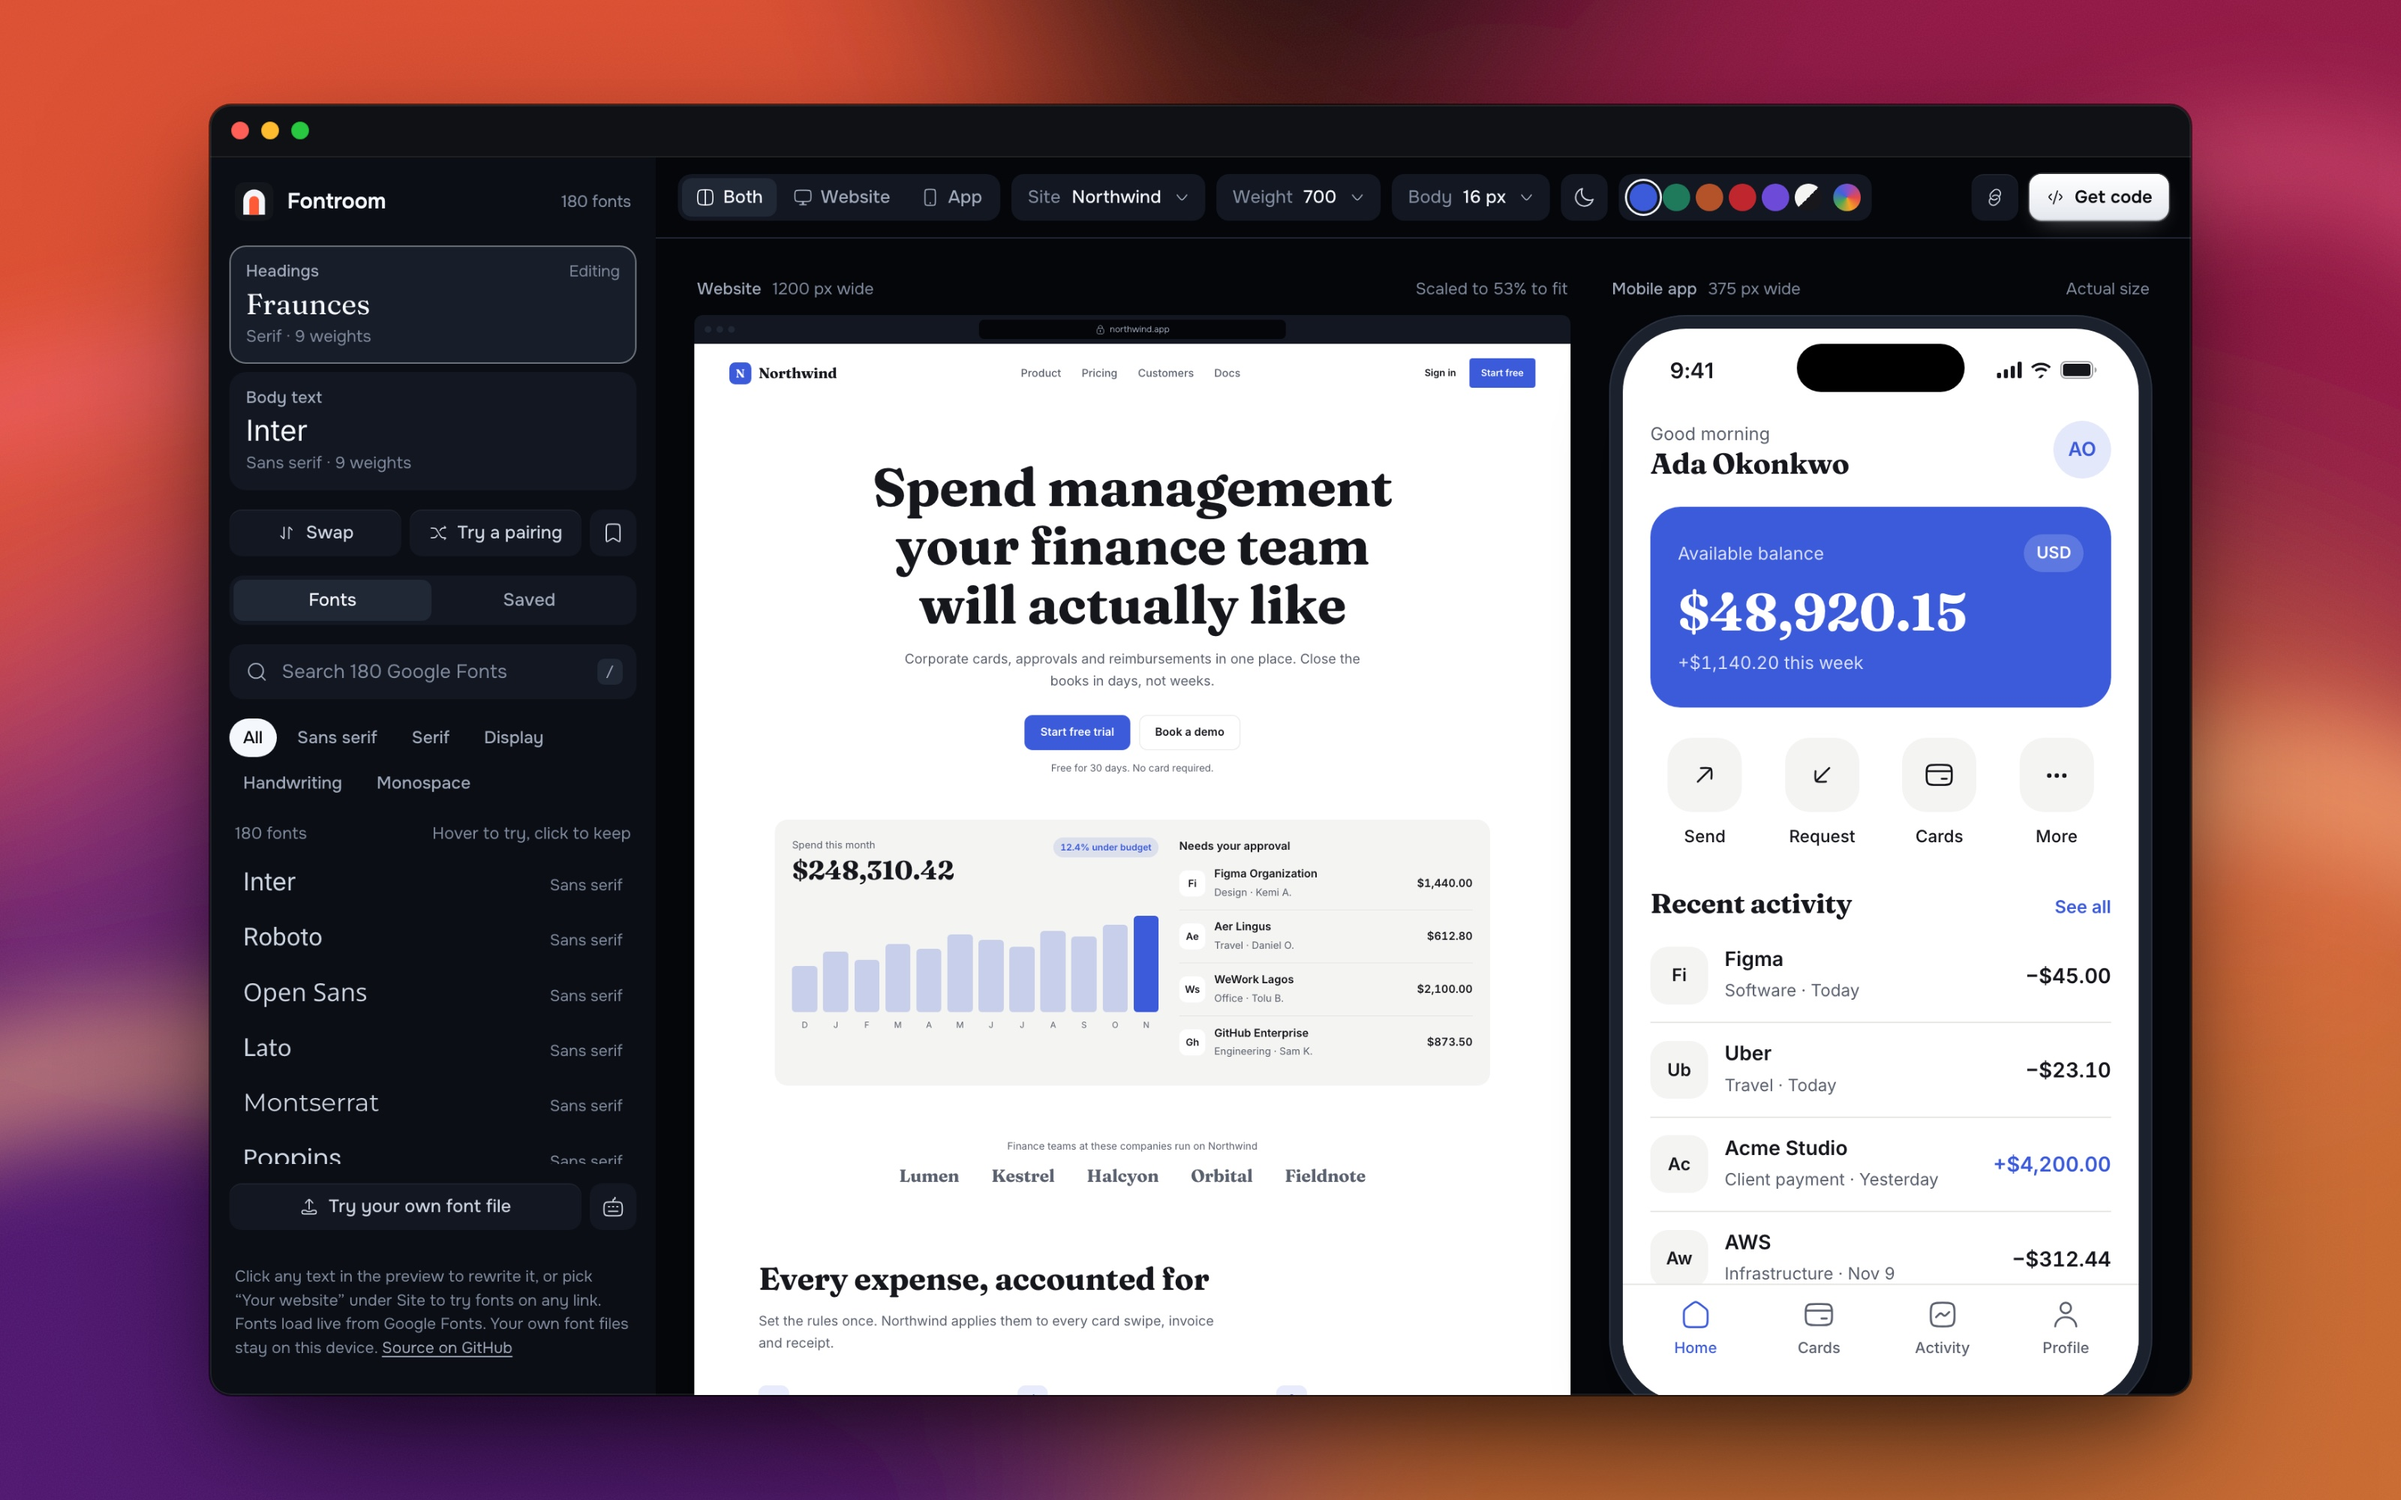
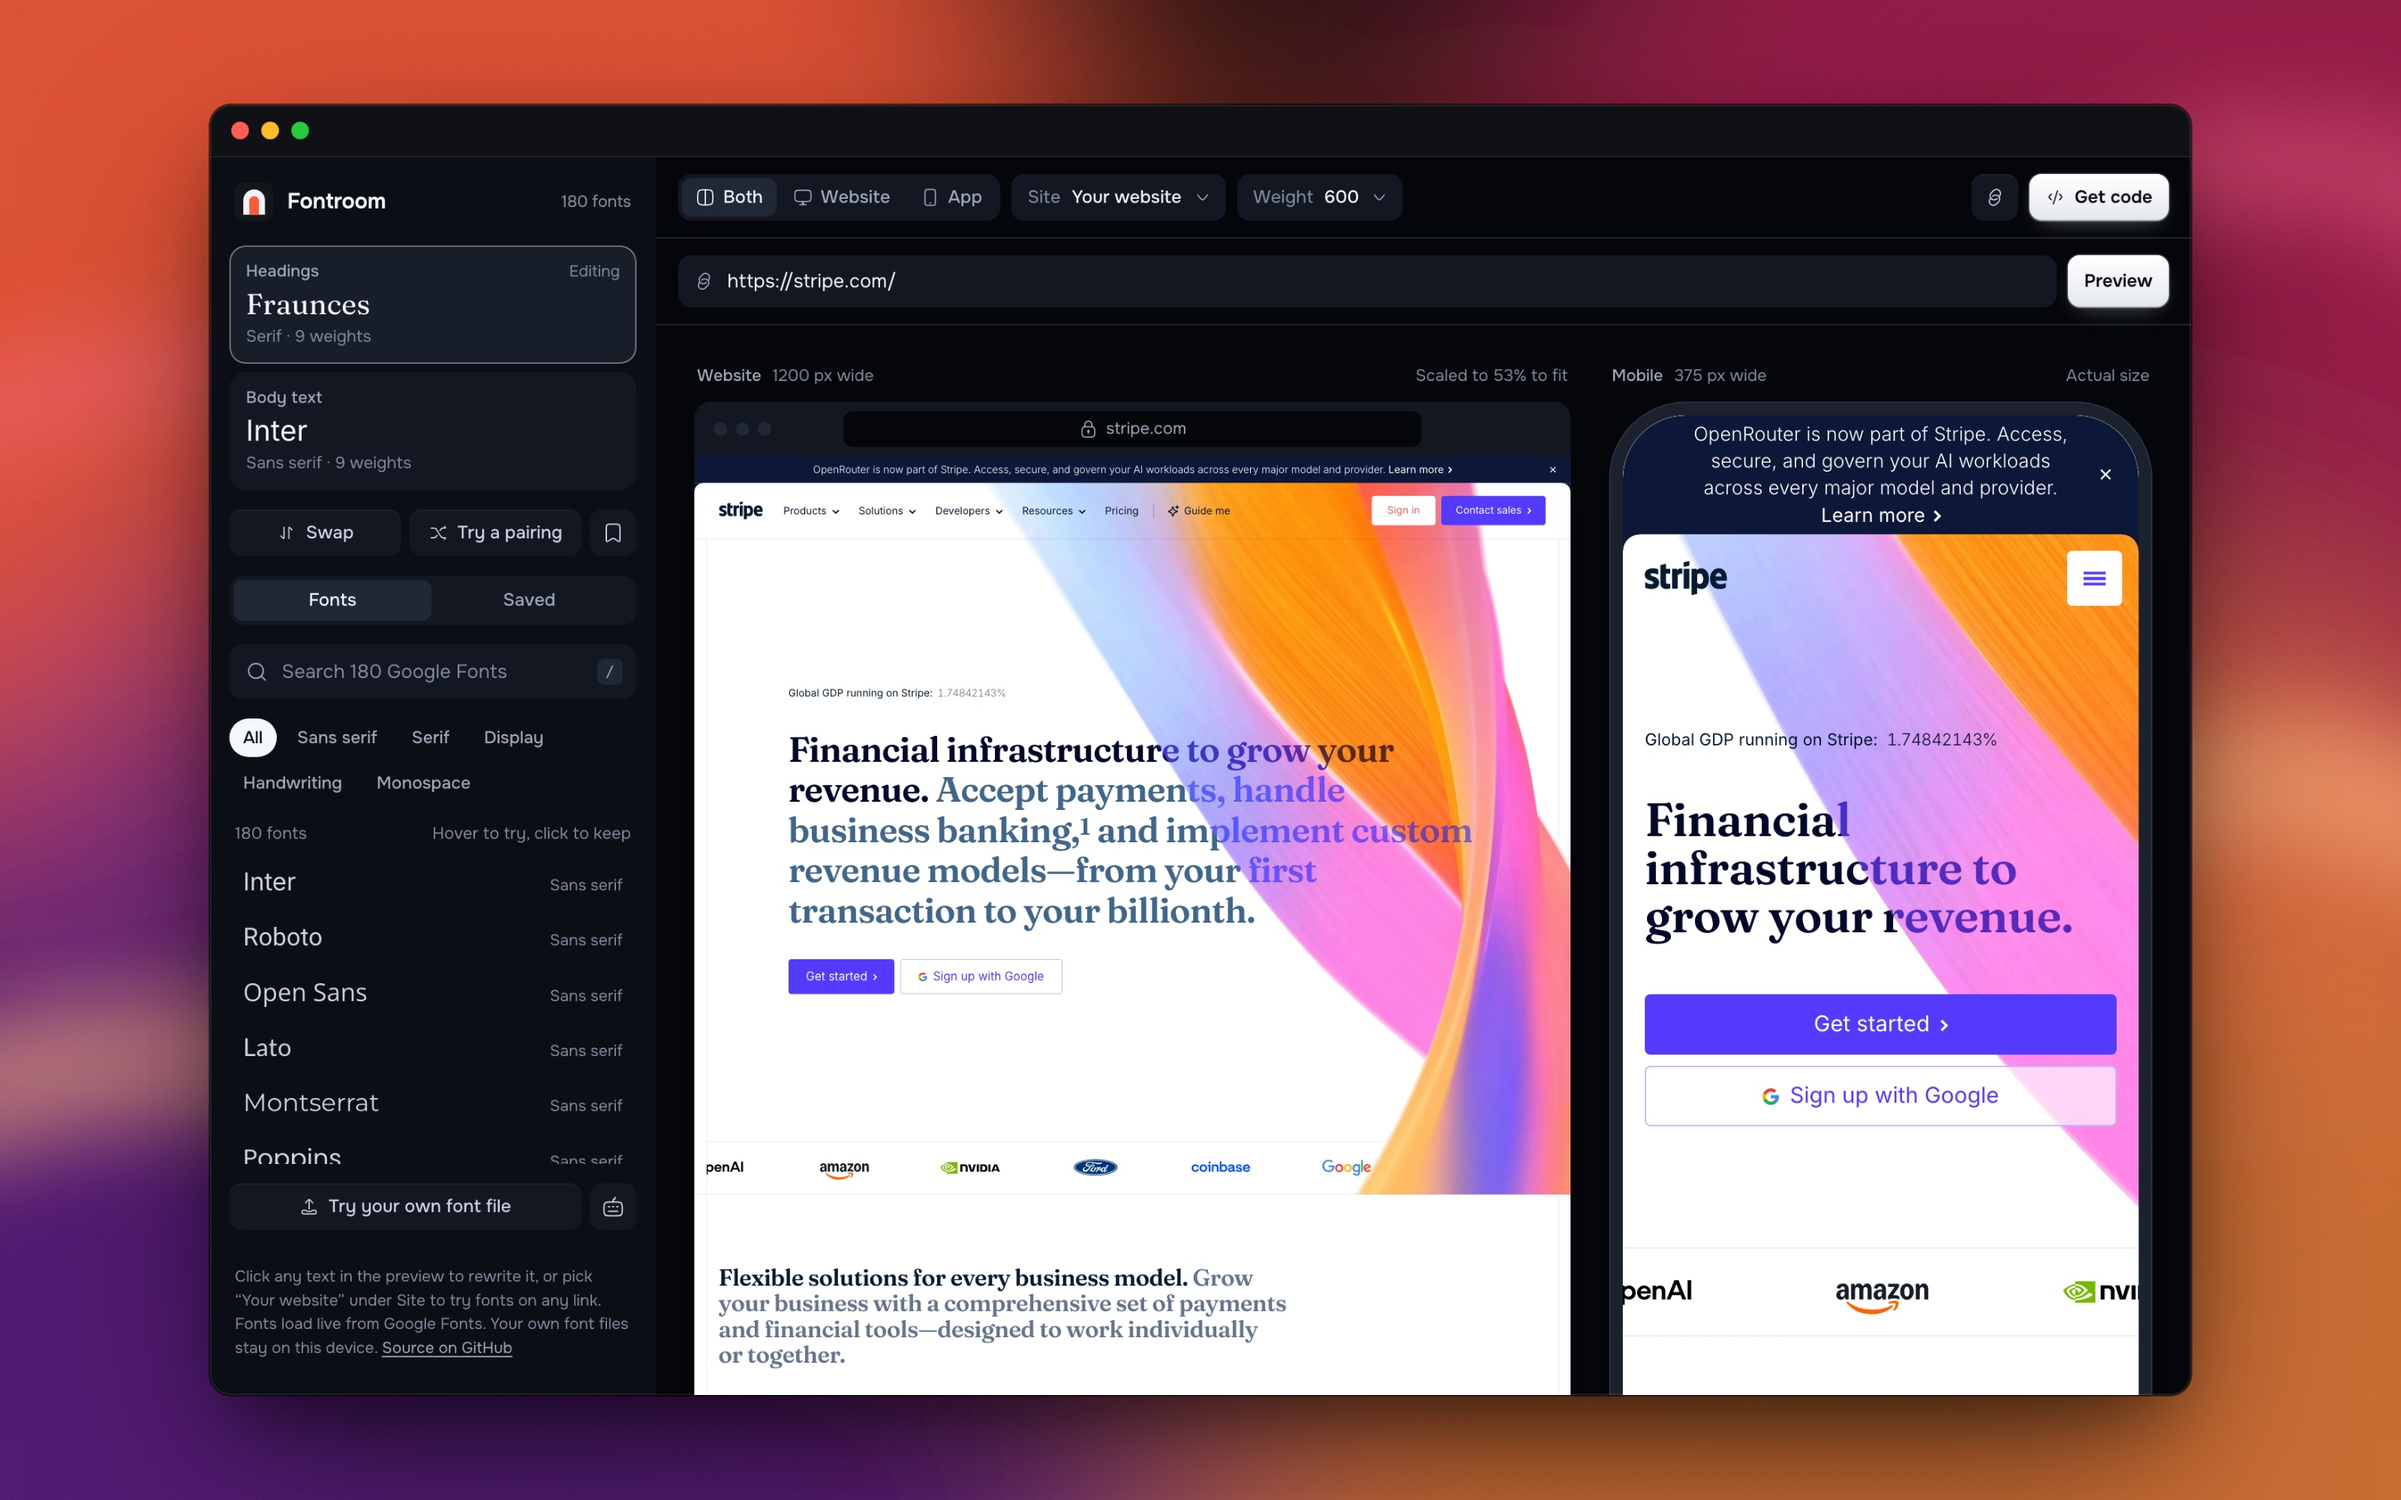
Show live sites with the URL bar in the README screenshots

diff --git a/README.md b/README.md
@@ -8,7 +8,7 @@ Google Fonts shows you one sample sentence. Fontroom puts the font on a full lan
 
 **Live:** [fontroom.vercel.app](https://fontroom.vercel.app)
 
-![Fontroom showing Fraunces and Inter on a SaaS website and a banking app](docs/app.jpg)
+![Fontroom trying Fraunces and Inter on stripe.com, desktop and mobile](docs/app.jpg)
 
 ## Features
 
@@ -26,9 +26,9 @@ Google Fonts shows you one sample sentence. Fontroom puts the font on a full lan
 - **Share links.** The URL holds the whole setup, so a link opens exactly what you see.
 - **Keyboard first.** Press `?` in the app for every shortcut.
 
-| Developer docs template | Magazine template, dark preview |
+| Bricolage Grotesque on notion.com | Instrument Serif on linear.app |
 | --- | --- |
-| ![Docs template with Bricolage Grotesque](docs/app-docs.jpg) | ![Magazine template in dark mode with Instrument Serif](docs/app-dark.jpg) |
+| ![Fontroom trying Bricolage Grotesque and DM Sans on notion.com](docs/app-notion.jpg) | ![Fontroom trying Instrument Serif and Inter on linear.app](docs/app-linear.jpg) |
 
 ## Keyboard shortcuts
 
